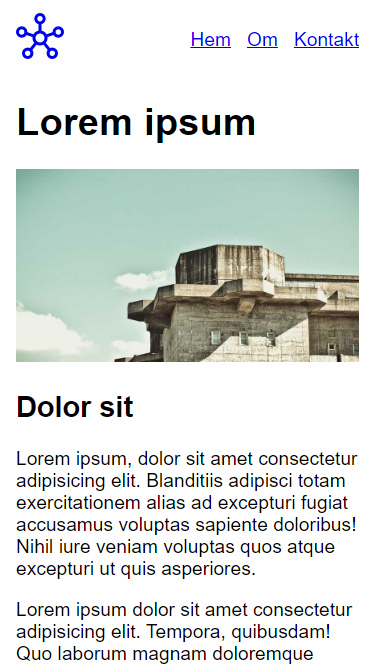
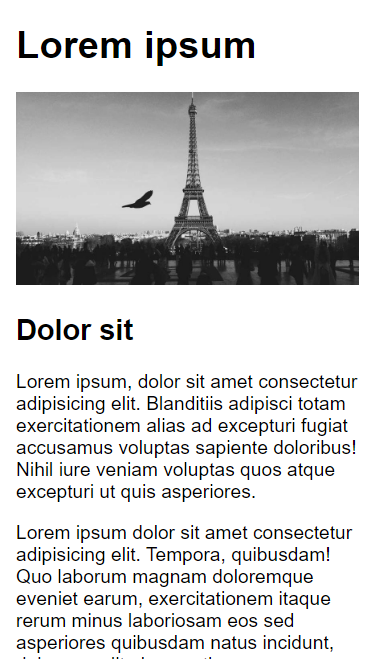
✨ edit -navbar nya skärmdumpar

diff --git a/index.html b/index.html
@@ -10,16 +10,6 @@
 </head>
 
 <body>
-    <nav class="navbar container">
-        <a href="#" class="brand">
-            <svg xmlns="http://www.w3.org/2000/svg" height="48" width="48"><path d="M11.7 46q-2.35 0-4.025-1.675Q6 42.65 6 40.3q0-2.4 1.675-4.05T11.7 34.6q.7 0 1.225.125.525.125 1.075.375l4.25-5.3q-.95-1.15-1.45-2.625t-.25-3.075l-6.05-2.05Q9.75 23.3 8.525 24t-2.825.7q-2.35 0-4.025-1.675Q0 21.35 0 19q0-2.4 1.675-4.05T5.7 13.3q2.4 0 4.05 1.65T11.4 19v.2l6.1 2.1q.9-1.6 2.175-2.45 1.275-.85 2.825-1.2V11.2q-1.95-.55-3.075-2.15Q18.3 7.45 18.3 5.7q0-2.4 1.675-4.05T24 0q2.4 0 4.05 1.65T29.7 5.7q0 1.75-1.15 3.35T25.5 11.2v6.45q1.55.35 2.85 1.2t2.2 2.45l6.05-2.1V19q0-2.4 1.675-4.05T42.3 13.3q2.4 0 4.05 1.65T48 19q0 2.35-1.65 4.025Q44.7 24.7 42.3 24.7q-1.6 0-2.85-.7t-1.95-1.95l-6.05 2.05q.25 1.6-.225 3.075T29.75 29.8L34 35.1q.55-.25 1.075-.375.525-.125 1.225-.125 2.4 0 4.05 1.65T42 40.3q0 2.35-1.65 4.025Q38.7 46 36.3 46q-2.35 0-4.025-1.675Q30.6 42.65 30.6 40.3q0-1 .275-1.8t.775-1.55l-4.25-5.3q-1.6.85-3.425.85-1.825 0-3.425-.85L16.35 37q.5.75.775 1.525.275.775.275 1.775 0 2.35-1.65 4.025Q14.1 46 11.7 46Zm-6-24.3q1.15 0 1.925-.775Q8.4 20.15 8.4 19t-.775-1.925Q6.85 16.3 5.7 16.3t-1.925.775Q3 17.85 3 19t.775 1.925q.775.775 1.925.775Zm6 21.3q1.15 0 1.925-.775.775-.775.775-1.925t-.775-1.925Q12.85 37.6 11.7 37.6t-1.925.775Q9 39.15 9 40.3t.775 1.925Q10.55 43 11.7 43ZM24 8.4q1.15 0 1.925-.775.775-.775.775-1.925t-.775-1.925Q25.15 3 24 3t-1.925.775Q21.3 4.55 21.3 5.7t.775 1.925Q22.85 8.4 24 8.4Zm.05 21.1q1.85 0 3.15-1.325 1.3-1.325 1.3-3.225 0-1.85-1.3-3.15-1.3-1.3-3.2-1.3-1.85 0-3.175 1.3Q19.5 23.1 19.5 25q0 1.85 1.325 3.175Q22.15 29.5 24.05 29.5ZM36.3 43q1.15 0 1.925-.775Q39 41.45 39 40.3t-.775-1.925Q37.45 37.6 36.3 37.6t-1.925.775q-.775.775-.775 1.925t.775 1.925Q35.15 43 36.3 43Zm6-21.3q1.15 0 1.925-.775Q45 20.15 45 19t-.775-1.925Q43.45 16.3 42.3 16.3t-1.925.775Q39.6 17.85 39.6 19t.775 1.925q.775.775 1.925.775ZM24 5.7ZM5.7 19ZM24 25Zm18.3-6ZM11.7 40.3Zm24.6 0Z"/></svg>
-        </a>
-        <ul>
-            <li><a href="#">Hem</a></li>
-            <li><a href="#">Om</a></li>
-            <li><a href="#">Kontakt</a></li>
-        </ul>
-    </nav>
     <main class="container">
         <header>
             <h1>Lorem ipsum</h1>

diff --git a/css/style.css b/css/style.css
@@ -1,36 +1,16 @@
 /* reset */
-.navbar > ul {
-    margin: 0;
-    list-style-type: none;
-}
 img {
     height: auto;
     max-width: 100%;
 }
 /* layout */
-.navbar {
-    display: flex;
-    justify-content: space-between;
-    align-items: center;
-
-    padding: 0.5rem 0;
-}
-.navbar > ul {
-    display: flex;
-    gap: 1rem;
-}
 .container {
     max-width: min(80ch, 100vw - 2rem);
     margin-inline: auto;
 }
 
 /* style */
-
 body {
     font-family: sans-serif;
     font-size: 1.2rem;
-}
-
-.brand svg {
-    fill: currentColor;
 }

diff --git a/README.md b/README.md
@@ -2,15 +2,9 @@
 
 Skapa en webbsida med **centrerad layout**, sidan bör vara responsiv.
 
-* Navbar med länkar
-    * Logga, placeras till vänster
-    * Meny, placers till höger
-        * Hem
-        * Om
-        * Kontakt
 * Main med innehåll
     * Rubrik
-    * Bild
+    * Bild, ska vara centrerad och fylla hela bredden (responsivt)
     * Underrubrik
     * Paragrafer med text
 
